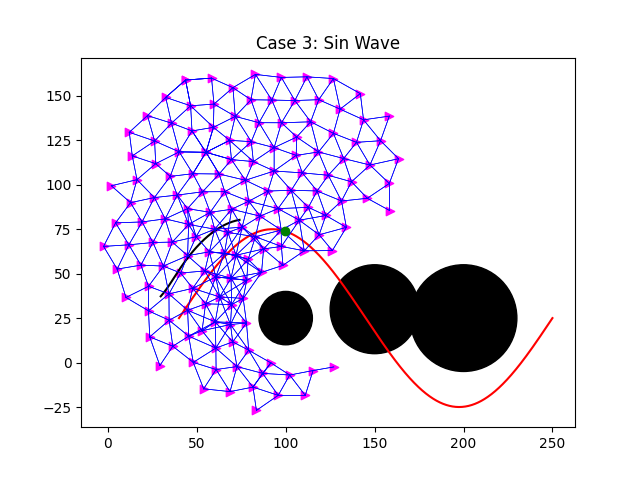
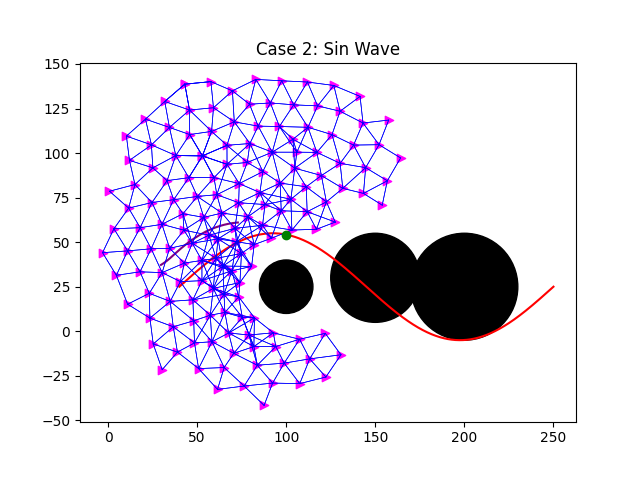
more

diff --git a/project2.py b/project2.py
@@ -84,7 +84,7 @@ def main():
     allYCenters = []
     gammaX = np.linspace(0, 210, 700)
     gammaY = np.sin((gammaX / 210) * (2 * np.pi))
-    gammaY *= 50
+    gammaY *= 30
     gammaX += 40
     gammaY += 25
 
@@ -110,11 +110,11 @@ def main():
         if ((i + 1) % 100 == 0) or (i == 0):
             plt.clf()
             plt.plot(gammaX, gammaY, color = "red", label = "Gamma Agent")
-            plt.plot(allXCenters, allYCenters, color = "black", label = "Center of Mass")
+            plt.plot(allXCenters, allYCenters, color = "purple", label = "Center of Mass")
             plotNodes(nodePositions)
             plt.scatter(gammaX[i], gammaY[i], color = "green", zorder = 100, label = "Target")
             plt.legend(bbox_to_anchor = (1, -0.3), borderaxespad = 0)
-            plt.title("Case 3: Sin Wave")
+            plt.title("Case 2: Sin Wave")
             ax = plt.gcf().gca()
             for j in range(0, len(obstacleRadii)):
                 thisCircle = plt.Circle((obstacleCenters[j][0], obstacleCenters[j][1]), obstacleRadii[j], color = 'black')
@@ -540,7 +540,7 @@ def plotCenterOfMassAndTarget(targetX, targetY, nodePositions, filename, sim):
     y_vels = nodePositions[1, :, :]
     y_sums = np.sum(y_vels, axis = 0)
     y_sums = np.divide(y_sums, nodePositions.shape[1])
-    plt.plot(x_sums, y_sums, color = "black", label = "Center of Mass")
+    plt.plot(x_sums, y_sums, color = "purple", label = "Center of Mass")
     plt.plot(targetX, targetY, color = "red", label = "Gamma Agent")
     plt.legend(loc = "lower left")
     plt.title("Center of Mass vs. Gamma Agent - " + sim)
